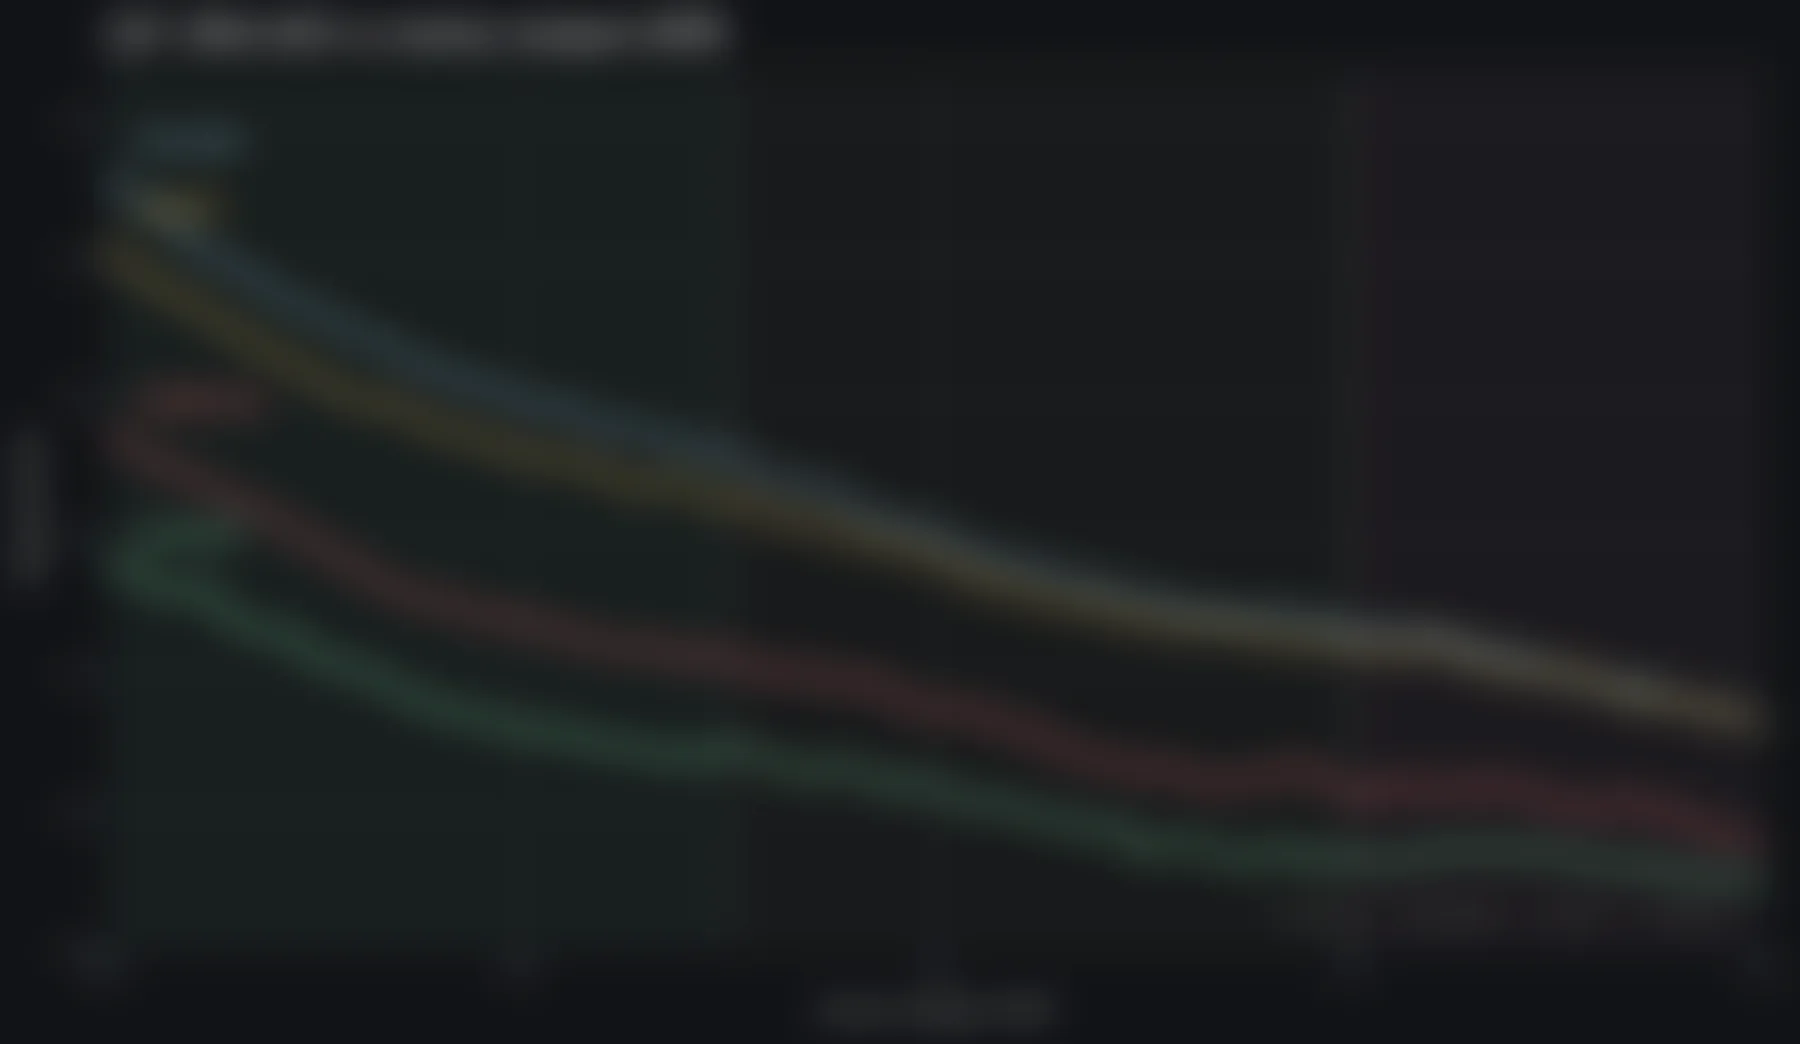
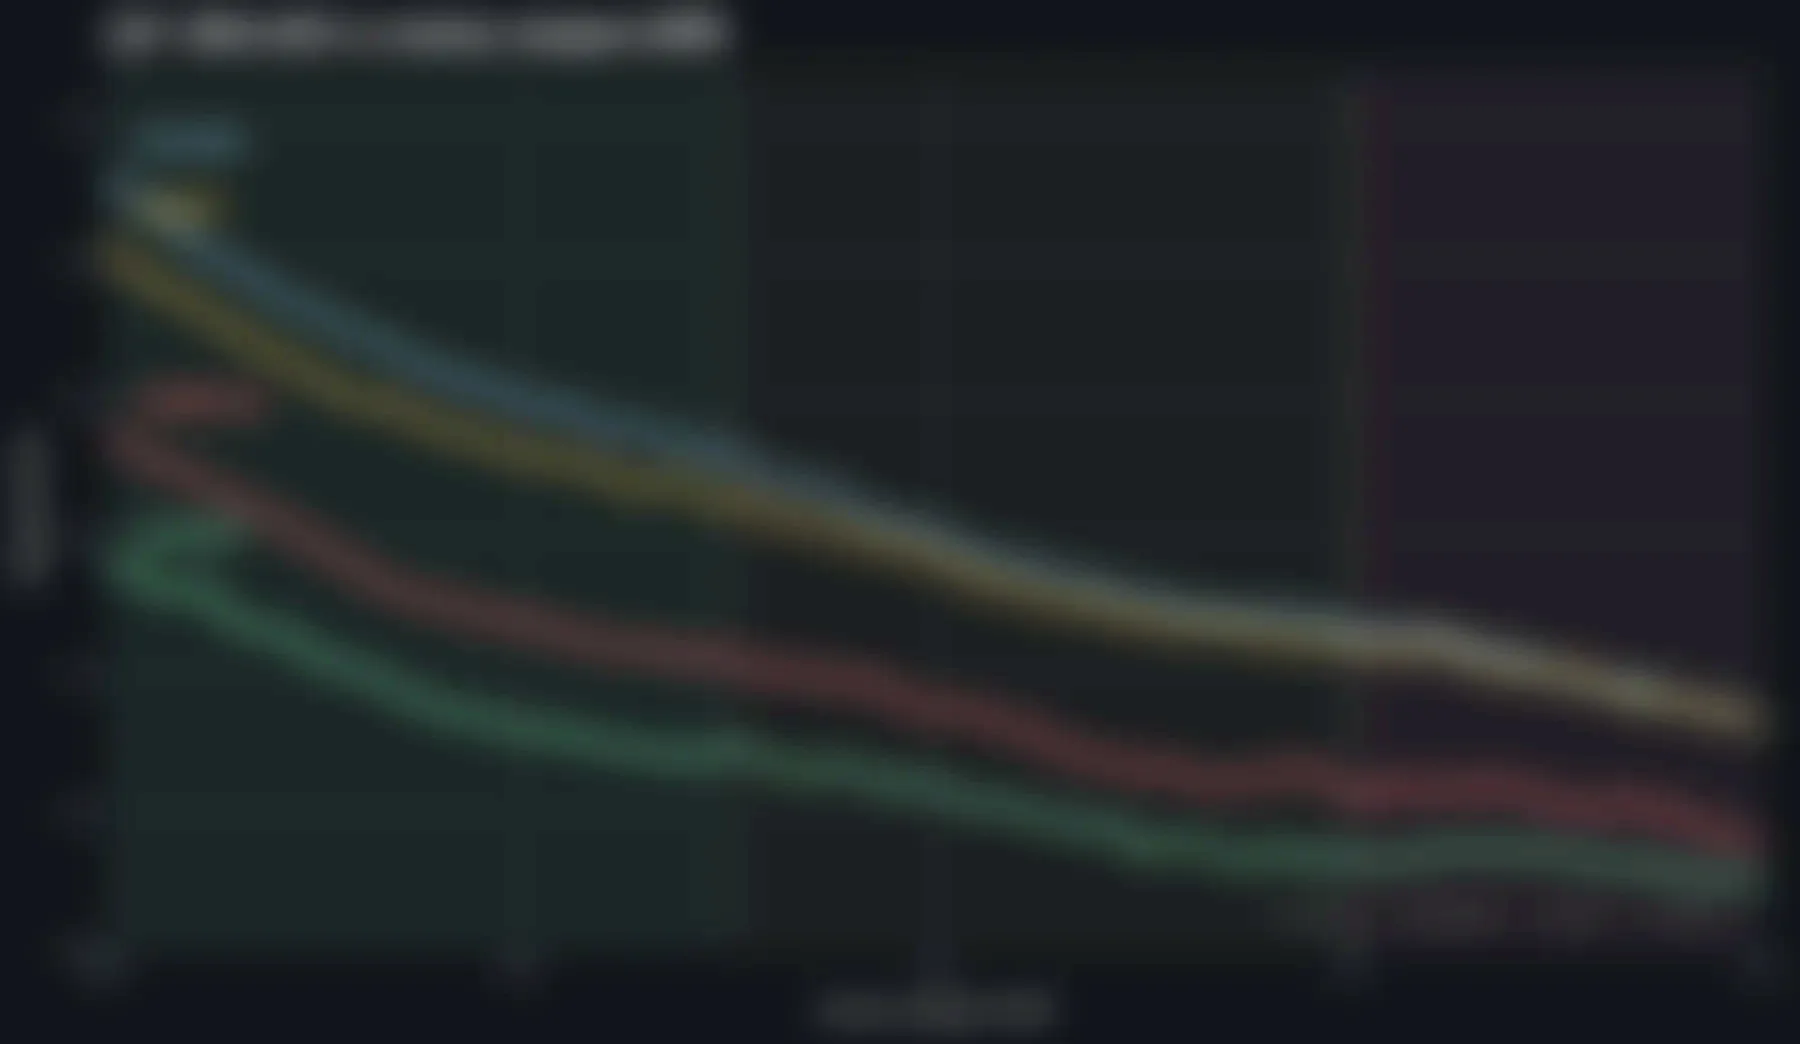
Rename PVS to LionHeart; capitalize bands; brighten placeholder
Display metric as LionHeart; chart band titles Easy/Hard; raise
placeholder visibility via lighter overlay, CSS filters, and image boost.

diff --git a/app.js b/app.js
@@ -166,7 +166,7 @@
     return 600 * (1 + Math.log2(rf / 0.6));
   }
 
-  // Typical worst 25–75 slope ≈ -2; fixed floor so a new name does not rewrite PVS.
+  // Typical worst 25–75 slope ≈ -2; fixed floor so a new name does not rewrite LionHeart.
   const SLOPE_FLOOR = -2.0;
   const SLOPE_EPS = 0.05;
 
@@ -206,7 +206,7 @@
     return (valAt(k75) - valAt(k25)) / (k75 - k25);
   }
 
-  /** PVS = Activity × (shifted slope)^1.5 */
+  /** LionHeart = Activity × (shifted slope)^1.5 */
   function pressureVolume(activity, slope) {
     if (activity !== activity || slope !== slope) return NaN;
     const shifted = Math.max(slope - SLOPE_FLOOR + SLOPE_EPS, SLOPE_EPS);
@@ -931,9 +931,9 @@
 
     // Short axis labels only (no farm % clutter)
     const capY = PLOT.y + PLOT.h + 40;
-    addText(svg, PLOT.x, capY, "easy", "#8a8882", 10, "start");
+    addText(svg, PLOT.x, capY, "Easy", "#8a8882", 10, "start");
     addText(svg, PLOT.x + PLOT.w / 2, capY, "enemy weapon KPM", "#8a8882", 10, "middle");
-    addText(svg, PLOT.x + PLOT.w, capY, "hard", "#8a8882", 10, "end");
+    addText(svg, PLOT.x + PLOT.w, capY, "Hard", "#8a8882", 10, "end");
     addText(svg, xToPx(EASY_MAX), capY + 14, "0.75", "#8a8882", 9, "middle");
     addText(svg, xToPx(HARD_MIN), capY + 14, "1.50", "#8a8882", 9, "middle");
 
@@ -1199,7 +1199,7 @@
       <tr><td>COI</td>${cells((r) => r.coi, 2)}</tr>
       <tr><td>mech%</td>${cells((r) => r.mech, 1)}</tr>
       <tr><td>slope</td>${cells((r) => r.slope, 2)}</tr>
-      <tr><td>PVS</td>${cells((r) => r.pvs, 2)}</tr>
+      <tr><td>LionHeart</td>${cells((r) => r.pvs, 2)}</tr>
       <tr><td>adjIvI</td>${cells((r) => r.adj, 0)}</tr>
       <tr><td>KD@1.5</td>${cells((r) => r.kd15, 2)}</tr>
       <tr><td>inflation</td>${cells((r) => r.inflation, 2)}</tr>

diff --git a/styles.css b/styles.css
@@ -449,6 +449,8 @@ header .sub {
   border-radius: 6px;
   pointer-events: none;
   user-select: none;
+  opacity: 0.95;
+  filter: brightness(1.18) contrast(1.12) saturate(1.08);
 }
 
 .chart-placeholder-overlay {
@@ -459,9 +461,9 @@ header .sub {
   justify-content: center;
   background: linear-gradient(
     180deg,
-    rgba(11, 12, 14, 0.15) 0%,
-    rgba(11, 12, 14, 0.35) 45%,
-    rgba(11, 12, 14, 0.45) 100%
+    rgba(11, 12, 14, 0.04) 0%,
+    rgba(11, 12, 14, 0.12) 45%,
+    rgba(11, 12, 14, 0.18) 100%
   );
   pointer-events: none;
 }
